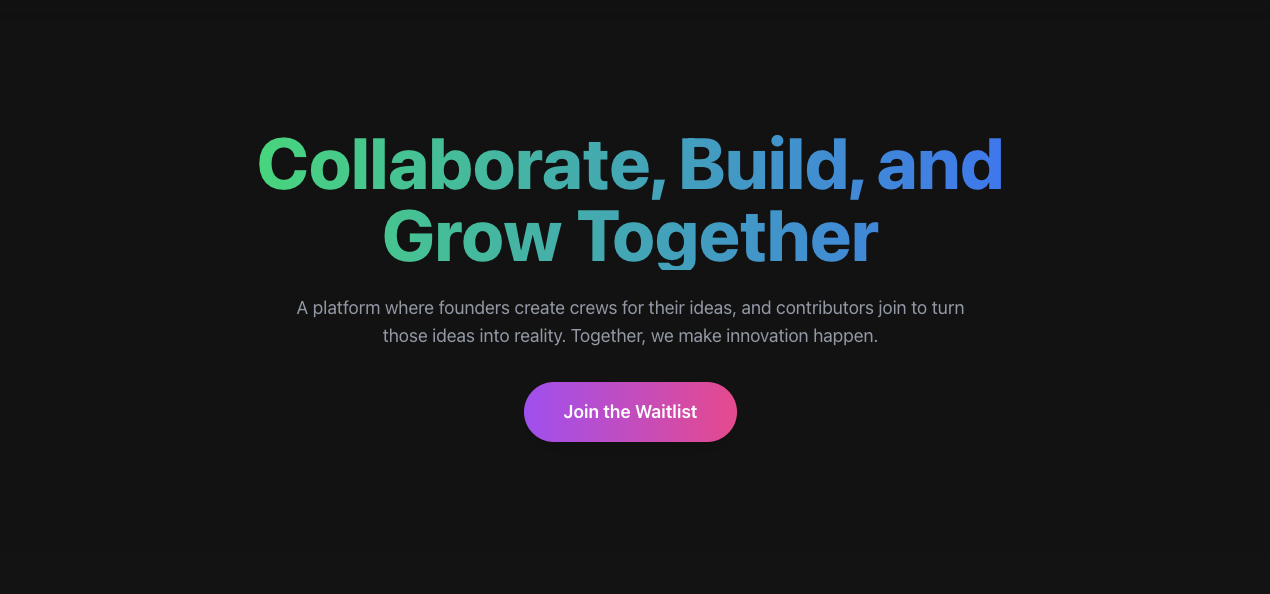
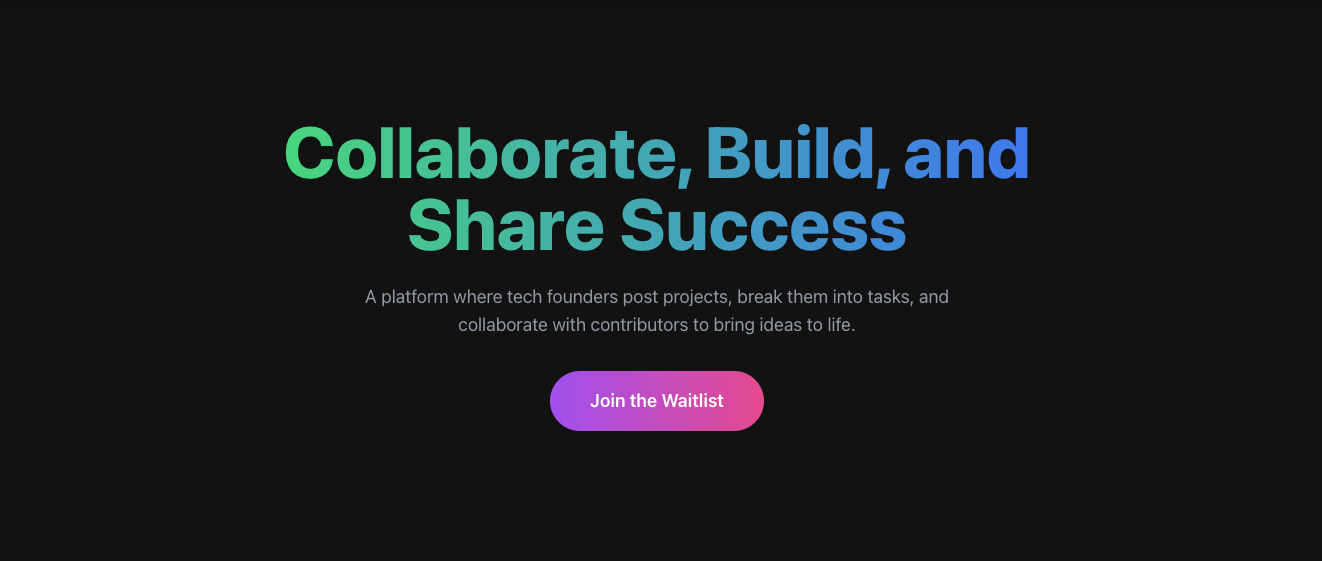
update landing page

Changed region(s): [[0.1843, 0.2121, 0.7984, 0.4545], [0.2457, 0.4848, 0.7677, 0.6061], [0.3992, 0.6364, 0.5835, 0.7879]]

diff --git a/src/app/page.tsx b/src/app/page.tsx
@@ -3,7 +3,7 @@ export default function Home() {
         <div className="min-h-screen bg-gradient-to-b from-[#101010] via-[#121212] to-black text-white font-sans">
             {/* Navbar */}
             <nav className="flex justify-between items-center px-8 py-5 bg-[#101010] sticky top-0 z-50 shadow-md">
-                <div className="text-5xl font-extrabold bg-gradient-to-r from-green-400 to-blue-500 bg-clip-text text-transparent">
+                <div className="text-3xl md:text-5xl font-extrabold bg-gradient-to-r from-green-400 to-blue-500 bg-clip-text text-transparent">
                     Melixir
                 </div>
             </nav>
@@ -11,15 +11,13 @@ export default function Home() {
             {/* Hero Section */}
             <header className="flex flex-col items-center justify-center text-center py-28 px-6">
                 <h1 className="text-5xl md:text-7xl font-extrabold max-w-3xl bg-gradient-to-r from-green-400 to-blue-500 bg-clip-text text-transparent leading-tight">
-                    Collaborate, Build, and Grow Together
+                    Collaborate, Build, and Share Success
                 </h1>
                 <p className="text-lg text-gray-400 mt-6 max-w-2xl">
-                    A platform where founders create crews for their ideas, and
-                    contributors join to turn those ideas into reality.
-                    Together, we make innovation happen.
+                A platform where tech founders post projects, break them into tasks, and collaborate with contributors to bring ideas to life.
                 </p>
                 <a
-                    href="/waitlist"
+                    href="#"
                     className="mt-8 px-10 py-4 bg-gradient-to-r from-purple-500 to-pink-500 text-white font-semibold text-lg rounded-full hover:scale-105 shadow-lg transform transition-transform"
                 >
                     Join the Waitlist
@@ -33,11 +31,7 @@ export default function Home() {
                         The Challenge
                     </h2>
                     <p className="text-lg text-gray-400">
-                        Building something meaningful requires teamwork, but
-                        finding the right people is hard. As a founder, you need
-                        contributors who share your vision. As a contributor,
-                        you need projects that excite you. Collaboration is key,
-                        but trust and alignment are essential.
+                    Building something meaningful needs the right people who share your vision and passion for collaboration.
                     </p>
                 </div>
             </section>
@@ -49,29 +43,22 @@ export default function Home() {
                         Our Solution
                     </h2>
                     <p className="text-lg text-gray-400">
-                        Melixir connects tech founders and contributors on a
-                        platform built for collaboration. Whether you’re
-                        building your MVP or contributing your expertise,
-                        Melixir ensures shared success through transparency and
-                        equity.
+                    Whether you’re building your MVP or providing your expertise, Melixir creates a collaborative space by ensuring transparency, easier management, and rewarding contributions equitably for shared success.
                     </p>
                     <div className="grid grid-cols-1 md:grid-cols-3 gap-8 mt-12">
                         {[
                             {
-                                title: 'For Founders',
-                                description:
-                                    'Create crews for your ideas and find passionate contributors to help you build them.',
-                            },
-                            {
-                                title: 'For Contributors',
-                                description:
-                                    'Join exciting projects, collaborate with innovative founders, and grow your expertise.',
-                            },
-                            {
-                                title: 'Shared Success',
-                                description:
-                                    'Work together seamlessly to innovate and share the rewards of your hard work.',
-                            },
+                              title: 'For Founders',
+                              description: 'Break your project into simple tasks to help others get started and keep things organized.',
+                          },
+                          {
+                              title: 'For Contributors',
+                              description: 'Work on exciting projects, team up with great founders, and build your skills.',
+                          },
+                          {
+                              title: 'Shared Success',
+                              description: 'Get rewarded for your efforts with equity, profits, or recognition.',
+                          },
                         ].map((feature, index) => (
                             <div
                                 key={index}
@@ -98,19 +85,16 @@ export default function Home() {
                     <div className="grid grid-cols-1 md:grid-cols-3 gap-8 mt-12">
                         {[
                             {
-                                step: '1. Join the Waitlist',
-                                description:
-                                    'Sign up now to be notified when Melixir launches and secure early access.',
+                              step: '1. Join the Waitlist',
+                              description: 'Be the first to know when Melixir goes live and start exploring opportunities early!',
                             },
                             {
-                                step: '2. Discover Opportunities',
-                                description:
-                                    'Explore crews created by founders and find projects that excite you.',
+                                step: '2. Find What Inspires You',
+                                description: 'Discover exciting projects by founders or kickstart your own journey.',
                             },
                             {
-                                step: '3. Build Together',
-                                description:
-                                    'Collaborate with like-minded individuals to turn ideas into impactful products.',
+                              step: '3. Build with the Right People',
+                              description: 'Do your part, and the right teammates will naturally join along the way.',
                             },
                         ].map((step, index) => (
                             <div
@@ -137,11 +121,10 @@ export default function Home() {
                     </h2>
                     <p className="text-lg text-gray-400 max-w-3xl mx-auto mb-10">
                         Don’t miss out on the chance to collaborate with
-                        passionate individuals. Join our waitlist now and be
-                        among the first to access Melixir.
+                        passionate individuals.
                     </p>
                     <a
-                        href="/waitlist"
+                        href="#"
                         className="mt-8 px-10 py-4 bg-gradient-to-r from-purple-500 to-pink-500 text-white font-semibold text-lg rounded-full hover:scale-105 shadow-lg transform transition-transform"
                     >
                         Join the Waitlist

diff --git a/src/app/layout.tsx b/src/app/layout.tsx
@@ -17,7 +17,7 @@ const geistMono = localFont({
 });
 
 export const metadata: Metadata = {
-    title: 'Melixir - Collaborate, Build, and Grow Together',
+    title: 'Melixir - Collaborate, Build, and Share Success',
     description:
         'Melixir is a platform where founders create teams for their ideas, and contributors join to turn those ideas into reality. Together, we make innovation happen.',
     keywords: [
@@ -30,7 +30,7 @@ export const metadata: Metadata = {
         'Digital Collaboration Platform',
     ],
     openGraph: {
-        title: 'Melixir - Collaborate, Build, and Grow Together',
+        title: 'Melixir - Collaborate, Build, and Share Success',
         description:
             'Melixir connects tech founders and contributors on a platform built for collaboration. Find passionate collaborators and contribute to innovative ideas.',
         url: 'https://melixir.org',
@@ -40,7 +40,7 @@ export const metadata: Metadata = {
                 url: '/preview-image.png',
                 width: 1200,
                 height: 630,
-                alt: 'Melixir - Collaborate, Build, and Grow Together',
+                alt: 'Melixir - Collaborate, Build, and Share Success',
             },
         ],
         locale: 'en_IN',
@@ -48,7 +48,7 @@ export const metadata: Metadata = {
     },
     twitter: {
         card: 'summary_large_image',
-        title: 'Melixir - Collaborate, Build, and Grow Together',
+        title: 'Melixir - Collaborate, Build, and Share Success',
         description:
             'Join Melixir to collaborate with founders and contributors in innovative projects. Build, grow, and succeed together.',
         images: ['/preview-image.png'],
